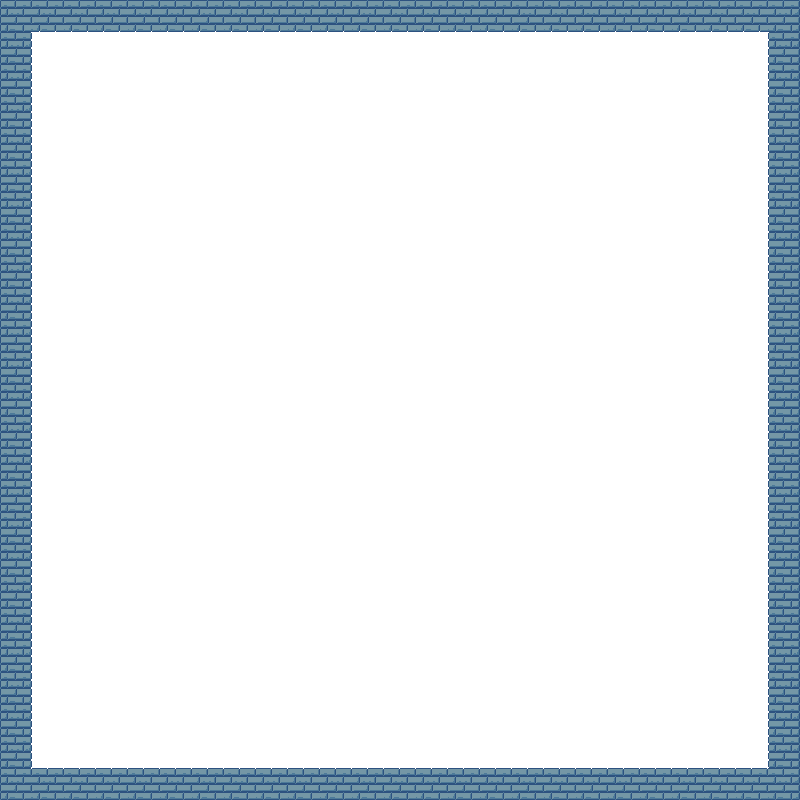
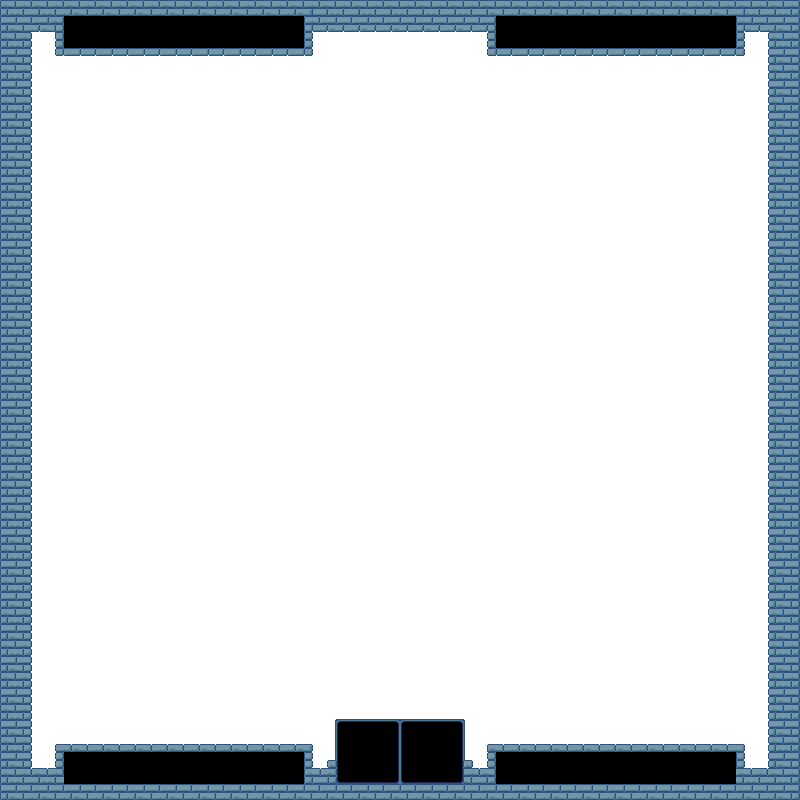
big fireballs and hit effects

Changed region(s): [[0.0625, 0.875, 0.9375, 1.0], [0.5938, 0.0, 0.9375, 0.0938], [0.0625, 0.0, 0.4062, 0.0938]]

diff --git a/src/Enemy.cs b/src/Enemy.cs
@@ -17,12 +17,16 @@ public class Enemy : Entity
 {
     Queue<EnemyAttackType> AttackQueue = new Queue<EnemyAttackType>();
     Texture2D ProjectileSprite;
+    Texture2D EffectSprite;
+    Texture2D BigProjectileSprite;
+    Texture2D BigEffectSprite;
     public Entity? Target;
     public int Direction = 0;
     public DifficultySettings DifficultySettings;
     public Dictionary<int, Projectile[]> ProjectileSchedule = new Dictionary<int, Projectile[]>();
     public int HitDuration;
     public List<string> Taunts;
+    public int ProjectileAnimSpeed = 20;
 
     public Enemy(int positionX, int positionY, Difficulty difficulty)
     {
@@ -74,6 +78,10 @@ public class Enemy : Entity
 
         EntityType = EntityType.Enemy;
         ProjectileSprite = LoadTexture("assets/badfireball.png");
+        BigProjectileSprite = LoadTexture("assets/bigfireball.png");
+        EffectSprite = LoadTexture("assets/badfireballhit.png");
+        BigEffectSprite = LoadTexture("assets/bigfireballhit.png");
+        ProjectileAnimSpeed = 20;
     }
 
 
@@ -114,14 +122,14 @@ public class Enemy : Entity
                         if (ProjectileSchedule.ContainsKey(currentFrame + i * 2))
                         {
                             var existingProjectiles = ProjectileSchedule[currentFrame + i * 2].ToList();
-                            existingProjectiles.Add(new Projectile(PositionX, PositionY, adjustedDirection, 0.0f, 5.0f, 0.0f, 5, 10, 180, EntityType.Enemy, ProjectileSprite, 3));
+                            existingProjectiles.Add(new Projectile(PositionX, PositionY, adjustedDirection, 0.0f, 5.0f, 0.0f, 5, 10, 180, EntityType.Enemy, ProjectileSprite, EffectSprite, 3, 4, ProjectileAnimSpeed));
                             ProjectileSchedule[currentFrame + i * 2] = existingProjectiles.ToArray();
                         }
                         else
                         {
                             ProjectileSchedule.Add(currentFrame + i * 2, new Projectile[]
                             {
-                                new Projectile(PositionX, PositionY, adjustedDirection, 0.0f, 5.0f, 0.0f, 5, 10, 180, EntityType.Enemy, ProjectileSprite, 3),
+                                new Projectile(PositionX, PositionY, adjustedDirection, 0.0f, 5.0f, 0.0f, 5, 10, 180, EntityType.Enemy, ProjectileSprite, EffectSprite, 3, 4, ProjectileAnimSpeed),
                             });
                         }
                     }
@@ -134,14 +142,14 @@ public class Enemy : Entity
                         if (ProjectileSchedule.ContainsKey(currentFrame + i * time_between_projectiles))
                         {
                             var existingProjectiles = ProjectileSchedule[currentFrame + i * time_between_projectiles].ToList();
-                            existingProjectiles.Add(new Projectile(PositionX, PositionY, Direction, 0.0f, 5.0f, 0.0f, 5, 10, 180, EntityType.Enemy, ProjectileSprite, 3));
+                            existingProjectiles.Add(new Projectile(PositionX, PositionY, Direction, 0.0f, 5.0f, 0.0f, 5, 10, 180, EntityType.Enemy, ProjectileSprite, EffectSprite, 3, 4, ProjectileAnimSpeed));
                             ProjectileSchedule[currentFrame + i * time_between_projectiles] = existingProjectiles.ToArray();
                         }
                         else
                         {
                             ProjectileSchedule.Add(currentFrame + i * time_between_projectiles, new Projectile[]
                             {
-                                new Projectile(PositionX, PositionY, Direction, 0.0f, 5.0f, 0.0f, 5, 10, 180, EntityType.Enemy, ProjectileSprite, 3),
+                                new Projectile(PositionX, PositionY, Direction, 0.0f, 5.0f, 0.0f, 5, 10, 180, EntityType.Enemy, ProjectileSprite, EffectSprite, 3, 4, ProjectileAnimSpeed),
                             });
                         }
                     }
@@ -152,14 +160,14 @@ public class Enemy : Entity
                     if (ProjectileSchedule.ContainsKey(currentFrame))
                     {
                         var existingProjectiles = ProjectileSchedule[currentFrame].ToList();
-                        existingProjectiles.Add(new Projectile(PositionX, PositionY, Direction, 0.0f, 5.0f, 0.0f, 60, 10, 180, EntityType.Enemy));
+                        existingProjectiles.Add(new Projectile(PositionX, PositionY, Direction, 0.0f, 5.0f, 0.0f, 60, 10, 180, EntityType.Enemy, BigProjectileSprite, BigEffectSprite, 4, 7, ProjectileAnimSpeed));
                         ProjectileSchedule[currentFrame] = existingProjectiles.ToArray();
                     }
                     else
                     {
                         ProjectileSchedule.Add(currentFrame, new Projectile[]
                         {
-                            new Projectile(PositionX, PositionY, Direction, 0.0f, 5.0f, 0.0f, 60, 10, 180, EntityType.Enemy),
+                            new Projectile(PositionX, PositionY, Direction, 0.0f, 5.0f, 0.0f, 60, 10, 180, EntityType.Enemy, BigProjectileSprite, BigEffectSprite, 4, 7, ProjectileAnimSpeed),
                         });
                     }
                     break;
@@ -173,14 +181,14 @@ public class Enemy : Entity
                             if (ProjectileSchedule.ContainsKey(currentFrame + i * 2))
                             {
                                 var existingProjectiles = ProjectileSchedule[currentFrame + i * 2].ToList();
-                                existingProjectiles.Add(new Projectile(PositionX, PositionY, adjustedDirection, 0.0f, 5.0f, 0.0f, 5, 10, 180, EntityType.Enemy, ProjectileSprite, 3));
+                                existingProjectiles.Add(new Projectile(PositionX, PositionY, adjustedDirection, 0.0f, 5.0f, 0.0f, 5, 10, 180, EntityType.Enemy, ProjectileSprite, EffectSprite, 3, 4, ProjectileAnimSpeed));
                                 ProjectileSchedule[currentFrame + i * 2] = existingProjectiles.ToArray();
                             }
                             else
                             {
                                 ProjectileSchedule.Add(currentFrame + i * 2, new Projectile[]
                                 {
-                                    new Projectile(PositionX, PositionY, adjustedDirection, 0.0f, 5.0f, 0.0f, 5, 10, 180, EntityType.Enemy, ProjectileSprite, 3),
+                                    new Projectile(PositionX, PositionY, adjustedDirection, 0.0f, 5.0f, 0.0f, 5, 10, 180, EntityType.Enemy, ProjectileSprite, EffectSprite, 3, 4, ProjectileAnimSpeed),
                                 });
                             }
                         }

diff --git a/src/Projectile.cs b/src/Projectile.cs
@@ -17,12 +17,15 @@ public class Projectile : Entity
     public int FramesToLive;
     public Entity? Target;
     public Texture2D Texture;
+    public Texture2D Effect;
     public bool LoadedTexture;
     public int AnimationFrames;
     public bool Die;
     private float CurrentSpeed;
     private int AnimFramesCounter;
     private int CurrentAnimFrame;
+    private int EffectAnimFrames;
+    private int EffectAnimSpeed;
     public EntityType? OriginEntityType;
 
     // constructor
@@ -44,12 +47,14 @@ public class Projectile : Entity
         AnimationSpeed = 15;
         AnimFramesCounter = 0;
         CurrentAnimFrame = 0;
+        EffectAnimFrames = 0;
+        EffectAnimSpeed = 0;
         OriginEntityType = null;
 
         CurrentSpeed = BaseSpeed;
     }
 
-    public Projectile(float positionX, float positionY, float direction, float turnSpeed, float baseSpeed, float acceleration, int radius, int damage, int framesToLive, EntityType? originEntityType = null, Texture2D texture = new Texture2D(), int frames = 1, Entity? target = null)
+    public Projectile(float positionX, float positionY, float direction, float turnSpeed, float baseSpeed, float acceleration, int radius, int damage, int framesToLive, EntityType? originEntityType = null, Texture2D texture = new Texture2D(), Texture2D effect = new Texture2D(), int frames = 1, int effectAnimFrames = 1, int effectAnimSpeed = 1, Entity? target = null)
     {
         OriginEntityType = originEntityType;
         EntityType = EntityType.Projectile;
@@ -66,10 +71,13 @@ public class Projectile : Entity
         Target = target;
         Die = false;
         Texture = texture;
+        Effect = effect;
         AnimationFrames = frames;
         AnimationSpeed = 15;
         AnimFramesCounter = 0;
         CurrentAnimFrame = 0;
+        EffectAnimFrames = effectAnimFrames;
+        EffectAnimSpeed = effectAnimSpeed;
 
         CurrentSpeed = BaseSpeed;
     }
@@ -148,6 +156,7 @@ public class Projectile : Entity
                     Console.WriteLine($"HIT___________{entity.EntityType}_by {OriginEntityType}______: {PositionX}, {PositionY}");
                     entity.TakeDamage(Damage, floatingTextList);
                     Die = true;
+                    globalState.HitEffectList.Add(new HitEffect(PositionX, PositionY, Direction, Effect, EffectAnimFrames, EffectAnimSpeed));
                     break;
                 }
                 if (entity.EntityType == EntityType.Enemy && OriginEntityType == EntityType.PresentPlayer)
@@ -158,6 +167,7 @@ public class Projectile : Entity
                     globalState.Player.IncreasePowerBar(Damage);
                     globalState.IncreaseScore(Damage);
                     Die = true;
+                    globalState.HitEffectList.Add(new HitEffect(PositionX, PositionY, Direction, Effect, EffectAnimFrames, EffectAnimSpeed));
                     break;
                 }
                 if (entity.EntityType == EntityType.Enemy && OriginEntityType == EntityType.PastPlayer)
@@ -167,6 +177,7 @@ public class Projectile : Entity
                     // entity.Health -= Damage;
                     // globalState.IncreaseScore(Damage);
                     Die = true;
+                    globalState.HitEffectList.Add(new HitEffect(PositionX, PositionY, Direction, Effect, EffectAnimFrames, EffectAnimSpeed));
                     break;
                 }
                 if (entity.EntityType == EntityType.FutureSpell && OriginEntityType == EntityType.Enemy)
@@ -178,6 +189,7 @@ public class Projectile : Entity
                     if (entity is Barrier barrier && barrier.Status)
                     {
                         barrier.Die = true;
+                        globalState.HitEffectList.Add(new HitEffect(PositionX, PositionY, Direction, Effect, EffectAnimFrames, EffectAnimSpeed));
                         Die = true;
                     }
                     break;

diff --git a/src/HitEffect.cs b/src/HitEffect.cs
@@ -1,0 +1,59 @@
+using Raylib_cs;
+using static Raylib_cs.Raylib;
+using Globals;
+
+namespace Entities;
+
+public class HitEffect : Entity
+{
+    public Texture2D EffectSprite;
+    public bool Die;
+    public float Direction;
+    public int AnimationFrames;
+    public int AnimationSpeed;
+    private int AnimFramesCounter;
+    private int CurrentAnimFrame;
+
+    public HitEffect(float positionX, float positionY, float direction, Texture2D texture = new Texture2D(), int animFrames = 1, int animSpeed = 1)
+    {
+        Direction = direction;
+        PositionX = positionX;
+        PositionY = positionY;
+        Die = false;
+        EffectSprite = texture;
+        AnimationFrames = animFrames;
+        AnimationSpeed = animSpeed;
+        AnimFramesCounter = 0;
+        CurrentAnimFrame = 0;
+    }
+
+    public void Update(float deltaTime, GlobalState globalState)
+    {
+        if (!Die)
+        {
+            AnimFramesCounter++;
+            if (AnimFramesCounter >= (60 / AnimationSpeed))
+            {
+                CurrentAnimFrame++;
+                AnimFramesCounter = 0;
+                if (CurrentAnimFrame >= AnimationFrames)
+                {
+                    Die = true;
+                }
+            }
+        }
+    }
+
+    public void Draw()
+    {
+        if (EffectSprite.Id != 0 && !Die)
+        {
+            int realWidth = EffectSprite.Width / AnimationFrames;
+            Rectangle sourceRect = new Rectangle(CurrentAnimFrame * realWidth, 0, EffectSprite.Width / AnimationFrames, EffectSprite.Height);
+            Rectangle destRect = new Rectangle(PositionX, PositionY, realWidth, EffectSprite.Height);
+
+            System.Numerics.Vector2 origin = new System.Numerics.Vector2(realWidth / 2, EffectSprite.Height / 2);
+            DrawTexturePro(EffectSprite, sourceRect, destRect, origin, 0, Color.White);
+        }
+    }
+}

diff --git a/src/Player.cs b/src/Player.cs
@@ -15,6 +15,9 @@ public class Player : Entity
         WeaponSprite = LoadTexture("assets/weapon.png");
         ProjectileSprite = LoadTexture("assets/fireball.png");
         BadProjectileSprite = LoadTexture("assets/badfireball.png");
+        EffectSprite = LoadTexture("assets/fireballhit.png");
+        BadEffectSprite = LoadTexture("assets/badfireballhit.png");
+
         PositionX = positionX;
         PositionY = positionY;
         MouseX = 0;
@@ -36,6 +39,8 @@ public class Player : Entity
     private Texture2D WeaponSprite;
     private Texture2D ProjectileSprite;
     private Texture2D BadProjectileSprite;
+    private Texture2D EffectSprite;
+    private Texture2D BadEffectSprite;
 
     public int MouseX;
     public int MouseY;
@@ -163,11 +168,11 @@ public class Player : Entity
 
         if (EntityType == EntityType.PresentPlayer)
         {
-            projectileList.Add(new Projectile(PositionX + forwardX, PositionY + forwardY, Direction, 0.0f, 1.0f, 0.0f, 5, 10, 360, EntityType, ProjectileSprite, 3));
+            projectileList.Add(new Projectile(PositionX + forwardX, PositionY + forwardY, Direction, 0.0f, 1.0f, 0.0f, 5, 10, 360, EntityType, ProjectileSprite, EffectSprite, 3, 4, 20));
         }
         else
         {
-            projectileList.Add(new Projectile(PositionX + forwardX, PositionY + forwardY, Direction, 0.0f, 1.0f, 0.0f, 5, 10, 360, EntityType, BadProjectileSprite, 3));
+            projectileList.Add(new Projectile(PositionX + forwardX, PositionY + forwardY, Direction, 0.0f, 1.0f, 0.0f, 5, 10, 360, EntityType, BadProjectileSprite, BadEffectSprite, 3, 4, 20));
         }
     }
 

diff --git a/src/Program.cs b/src/Program.cs
@@ -86,6 +86,15 @@ class Program
                         }
                         projectile.Update(deltaTime, globalState);
                     }
+                    foreach (HitEffect hitEffect in globalState.HitEffectList)
+                    {
+                        if (hitEffect.Die)
+                        {
+                            globalState.KillList.Add(hitEffect);
+                            continue;
+                        }
+                        hitEffect.Update(deltaTime, globalState);
+                    }
 
                     foreach (FloatingText damageNumber in globalState.FloatingTextList)
                     {
@@ -106,6 +115,10 @@ class Program
                         if (entity is FloatingText floatingText)
                         {
                             globalState.FloatingTextList.Remove(floatingText);
+                        }
+                        if (entity is HitEffect hitEffect)
+                        {
+                            globalState.HitEffectList.Remove(hitEffect);
                         }
                     }
                     globalState.KillList.Clear();
@@ -245,6 +258,12 @@ class Program
                 {
                     pastTrap.Draw();
                 }
+
+                foreach (HitEffect hitEffect in globalState.HitEffectList)
+                {
+                    hitEffect.Draw();
+                }
+
 
                 DrawTexture(globalState.Foreground, 0, 0, Color.White);
 

diff --git a/src/GlobalState.cs b/src/GlobalState.cs
@@ -36,7 +36,7 @@ public class GlobalState
         BarrierList = new List<Barrier>();
         PastTrapList = new List<PastTrap>();
         KillList = new List<Entity>();
-
+        HitEffectList = new List<HitEffect>();
 
         Background = Raylib.LoadTexture("assets/background.png");
         Foreground = Raylib.LoadTexture("assets/foreground.png");
@@ -54,6 +54,7 @@ public class GlobalState
     public List<PastTrap> PastTrapList = new List<PastTrap>();
     public List<Entity> NonProjectileList = new List<Entity>();
     public List<FloatingText> FloatingTextList = new List<FloatingText>();
+    public List<HitEffect> HitEffectList = new List<HitEffect>();
     public List<Entity> KillList = new List<Entity>();
     public Player Player { get; set; }
     public Player[] PastPlayers { get; set; } = [];
